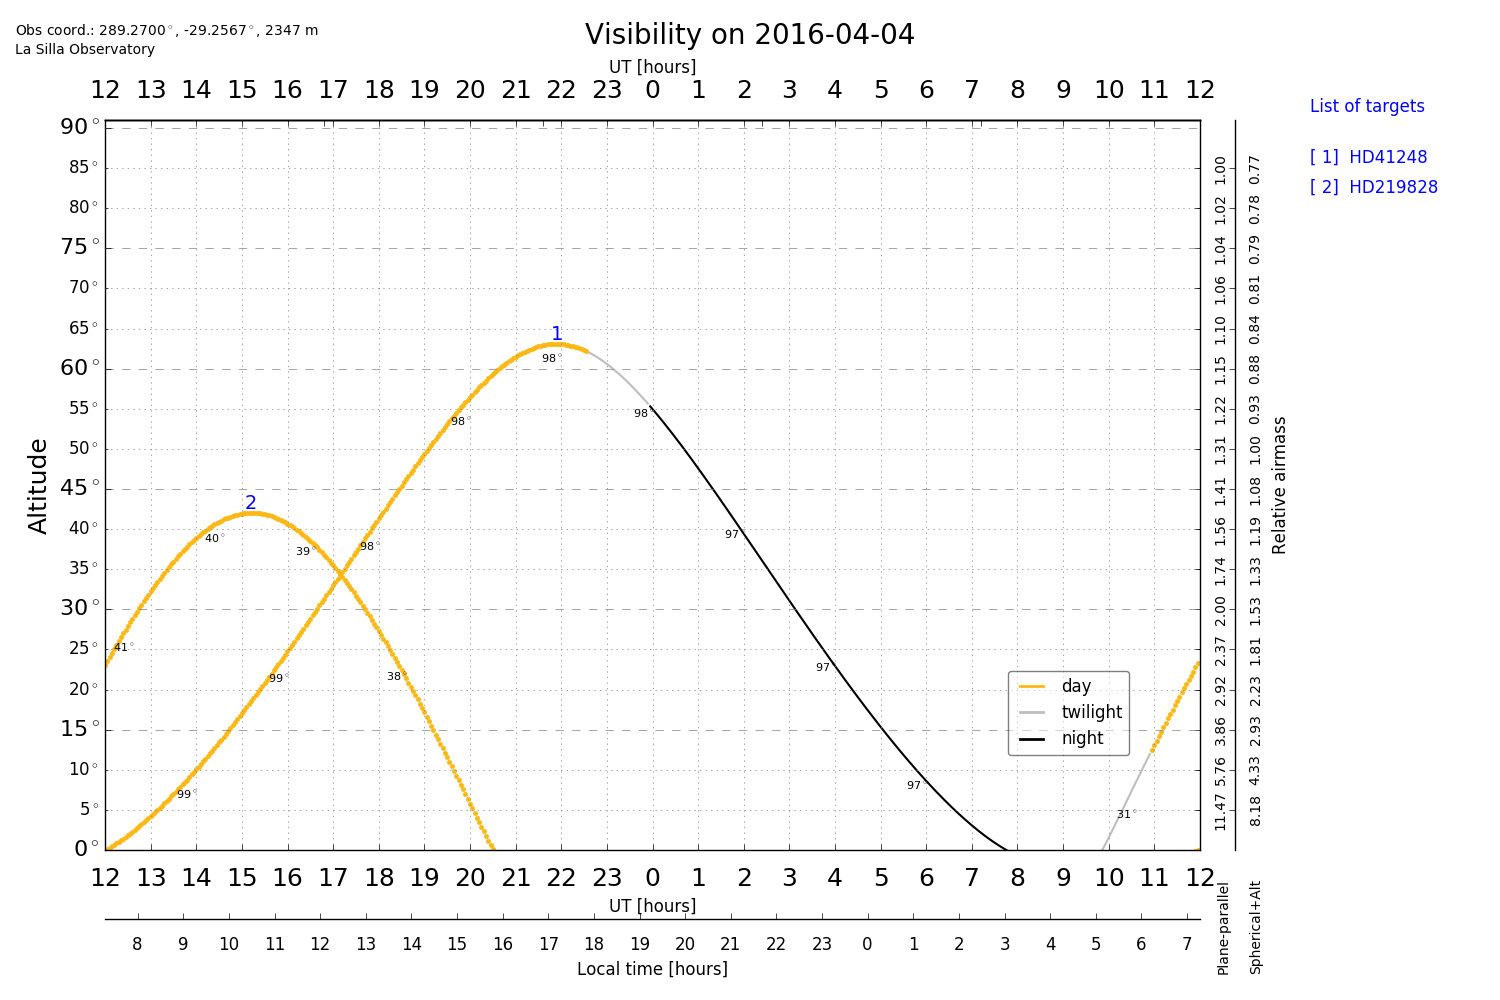
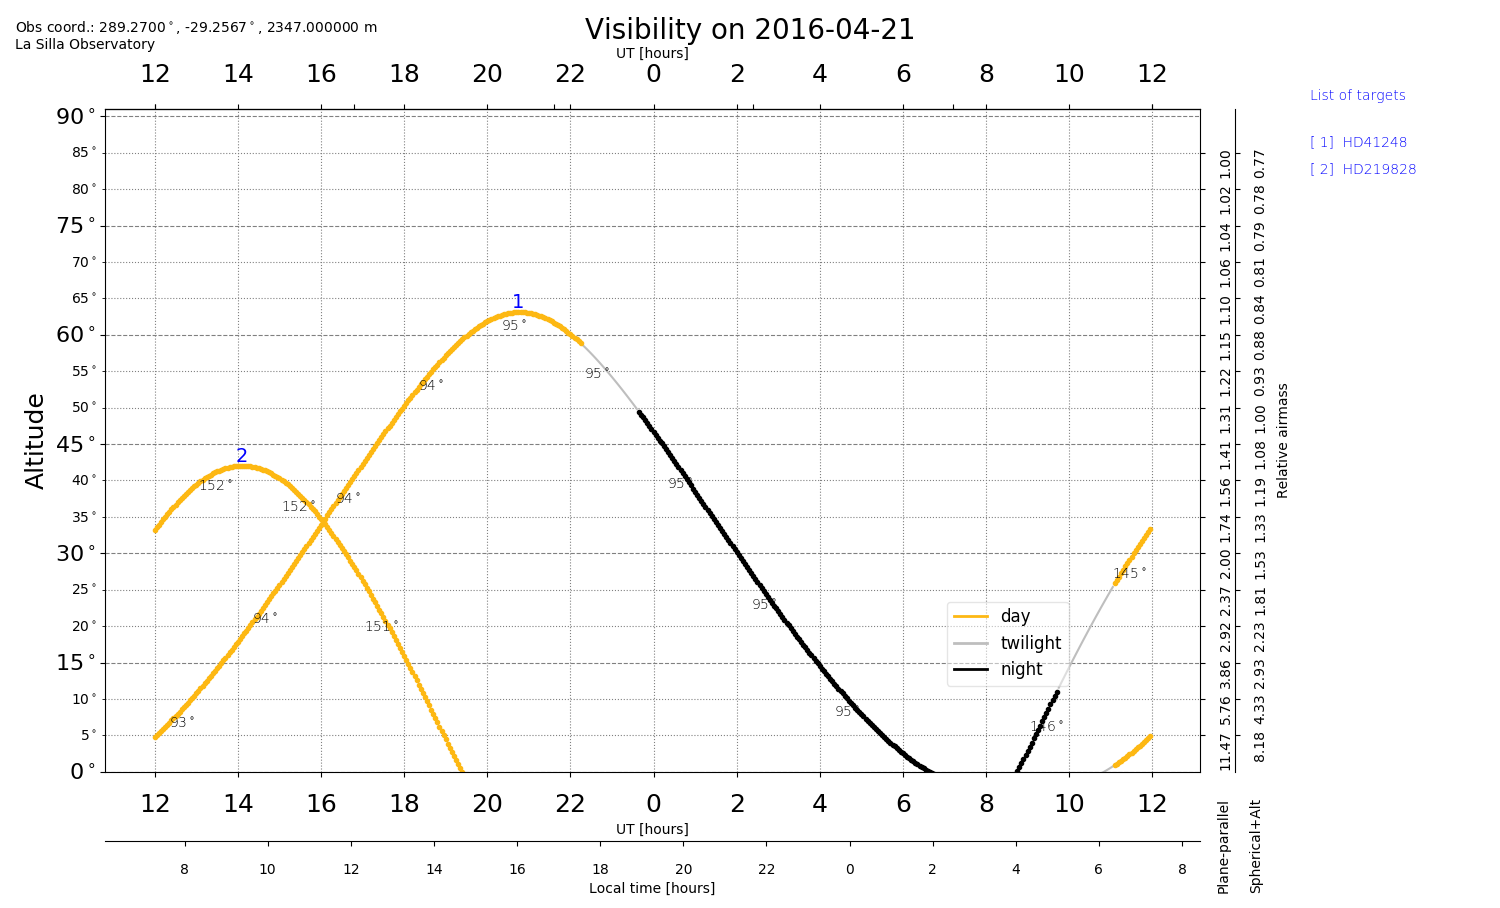
Fix visibility example images.
Change day to make obvious month/day order.

diff --git a/docs/source/visibility.rst b/docs/source/visibility.rst
@@ -16,7 +16,7 @@ The ``staralt`` mode displays the altitude verse time of targets for a particula
 
 For example::
 
-    python visibility.py HD41248,HD219828 -s esolasilla -d 2016-04-04
+    python visibility.py HD41248,HD219828 -s esolasilla -d 2016-04-21
 
 Results in the following image.
 
@@ -42,8 +42,6 @@ The ``starobs`` mode shows how the altitude, at the *mid-dark time*, of each tar
 ::
 
     python visibility.py HD967,HD22879,HD40865 -m starobs
-
-**Draft image**
 
 .. image:: visibility_starobs.png
    :scale: 40 %
